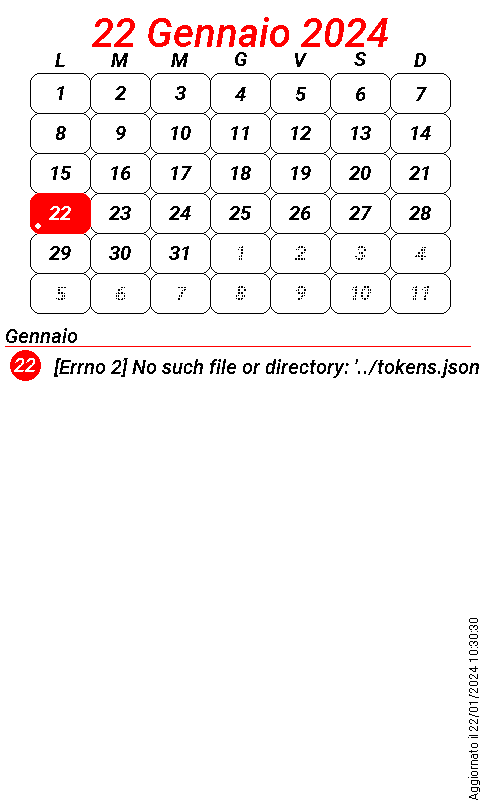
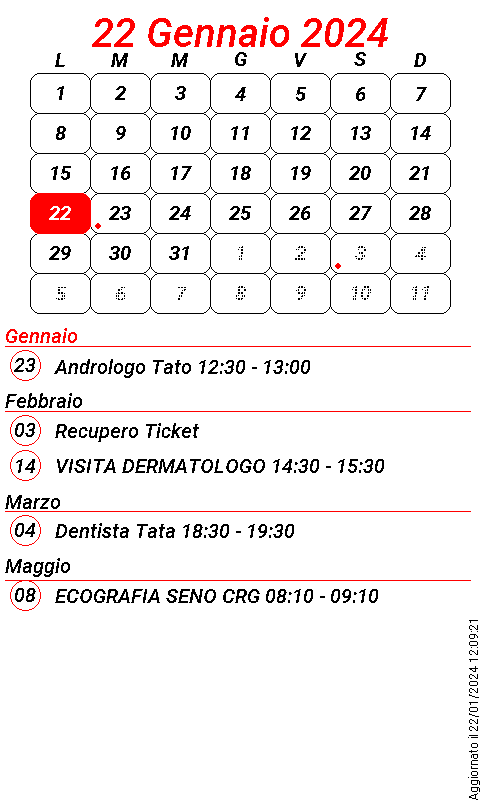
1

diff --git a/flib.py b/flib.py
@@ -48,7 +48,7 @@ def getEventDay(x):
 def getEventDayFull(x):
     return(x.get('start').get('date',x.get('start').get('dateTime')))[0:10]
 def getEventMonth(x):
-    return(x.get('start').get('date',x.get('start').get('dateTime')))[6:8]
+    return(x.get('start').get('date',x.get('start').get('dateTime')))[5:7]
 
 
 def getEventStartEndFormatted(x):
@@ -209,13 +209,15 @@ def generate():
                 month = mo
                 m = months[int(ed[5:7])-1]
                 _, _, bw, bh = blackDraw.textbbox((0,0), m,font = font)
-                blackDraw.text((margin,currenty), m , fill=0,font = font)
+                if(month == today.strftime("%m")):
+                    redDraw.text((margin,currenty), m , fill=0,font = font)
+                else:
+                    blackDraw.text((margin,currenty), m , fill=0,font = font)
                 redDraw.line((margin,currenty+bh+1,width-hmargin,currenty+bh+1), fill=None, width=1, joint=None)
 
                 currenty = currenty+baseFontSize+margin
             if(day!=ed):
                 day=ed
-                #on red
                 _, _, bw, bh = redDraw.textbbox((0,0), ed[8:10],font = font)
                 if(day==today.strftime("%Y-%m-%d")):
                     redDraw.ellipse((circleMargin,currenty,circleMargin+circleDiameter,currenty+circleDiameter), fill=0, width=1)
@@ -223,7 +225,6 @@ def generate():
                 else:
                     redDraw.ellipse((circleMargin,currenty,circleMargin+circleDiameter,currenty+circleDiameter), fill=None, width=1)
                     blackDraw.text((circleMargin + circleDiameter/2- bw/2,currenty + circleDiameter/2 - bh/2 -1), ed[8:10] , fill=0,font = font)
-            #blackDraw.rounded_rectangle((leftmarginbox,currenty, boxw,currenty +boxh), radius=5, fill=None, outline=None, width=1)
             blackDraw.text((leftmarginbox + hmargin, currenty + margin), event.get('summary')+" "+getEventStartEndFormatted(event), fill=0,font = font)
             
             currenty = currenty+margin+boxh
